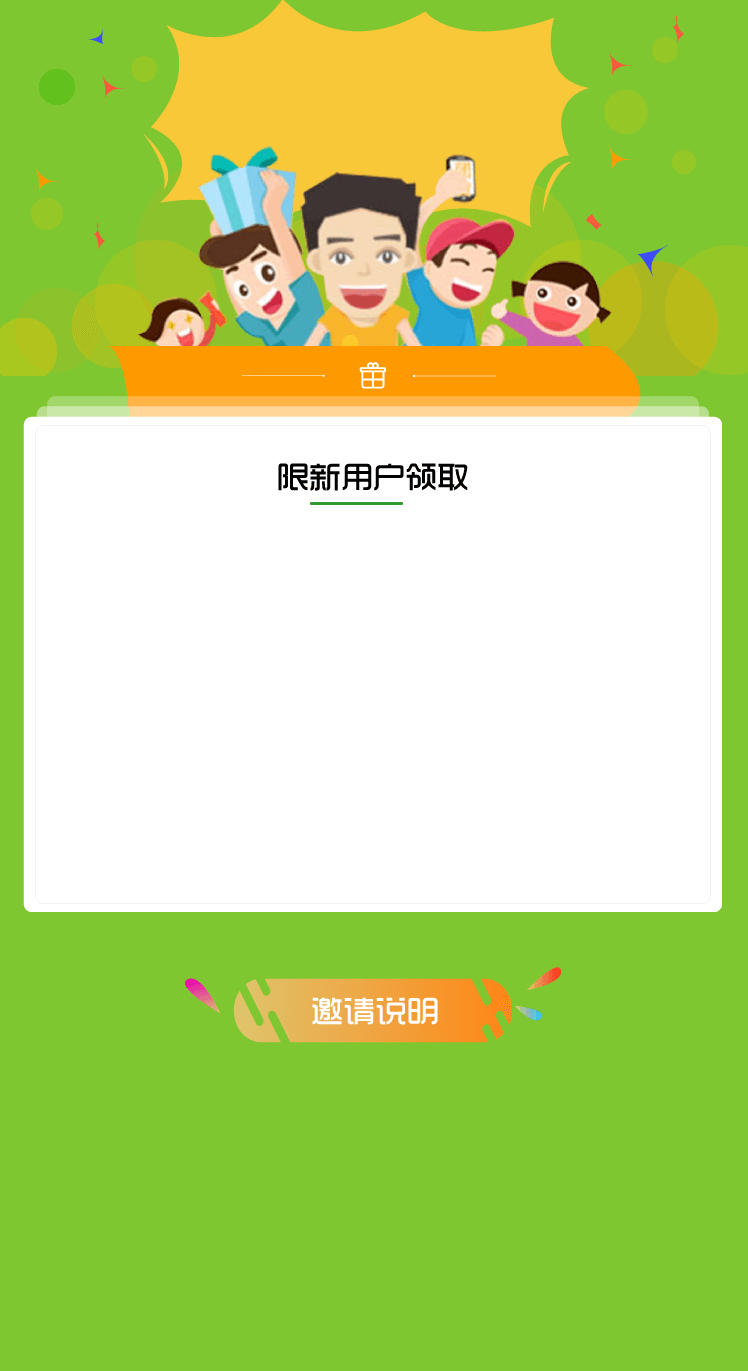
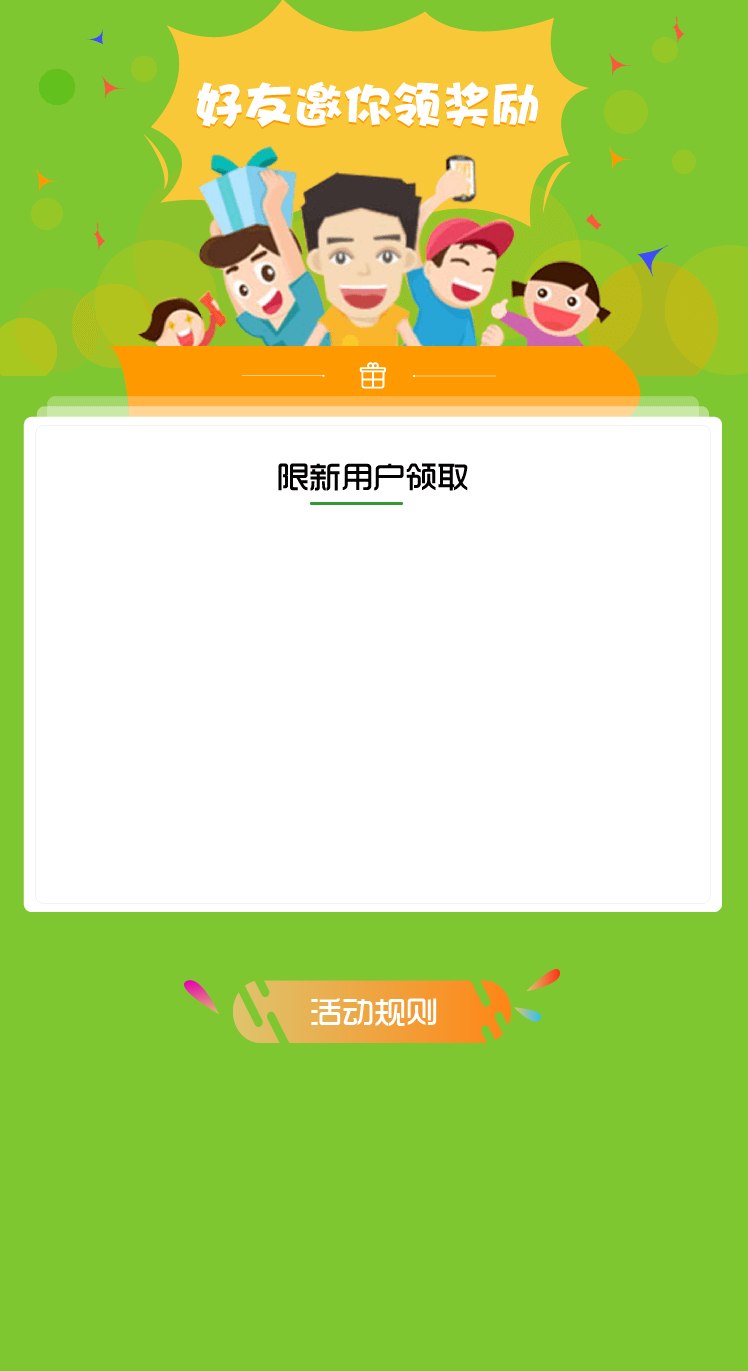
修改h5被邀请页面

diff --git a/affiliate_invite_register.dwt.php b/affiliate_invite_register.dwt.php
@@ -37,31 +37,15 @@ defined('IN_ECJIA') or header("HTTP/1.0 404 Not Found");exit('404 Not Found');
 	</div>
 	<div class="invite-notice">
 		<ul>
+			<!--{foreach from=$invite_user.invitee_rule_explain item=invite}-->
+			{if $invite}
 			<li>
 				<p>
-					<i>1.</i>好友通过您的邀请，打开链接，在活动页输入手机号码登录，即可获得奖励；
+					{$invite}
 				</p>
 			</li>
-			<li>
-				<p>
-					<i>2.</i>每邀请一位新人好友并完成注册都可获得相应的奖励；
-				</p>
-			</li>
-			<li>
-				<p>
-					<i>3.</i>奖励一经领取后，不可删除，不可提现，不可转赠；
-				</p>
-			</li>
-			<li>
-				<p>
-					<i>4.</i>新用户领取的奖励查看方式：【我的-我的钱包】查看；
-				</p>
-			</li>
-			<li>
-				<p>
-					<i>5.</i>如有任何的疑问请咨询官网客服人员。
-				</p>
-			</li>
+			{/if}
+			<!--{/foreach}-->
 		</ul>
 	</div>
 </div>

diff --git a/extras/controller/affiliate_controller.php b/extras/controller/affiliate_controller.php
@@ -56,11 +56,17 @@ class affiliate_controller {
 		
 		$res = ecjia_touch_manager::make()->api(ecjia_touch_api::CAPTCHA_IMAGE)->data(array('token' => $token))->run();
 		$res = !is_ecjia_error($res) ? $res : array();
-
+		
 		ecjia_front::$controller->assign('captcha_image', $res['base64']);
 		
 		$invite_code = trim($_GET['invite_code']);
 		ecjia_front::$controller->assign('invite_code', $invite_code);
+
+		$token = ecjia_touch_user::singleton()->getToken();
+		$invite_user_detail = ecjia_touch_manager::make()->api(ecjia_touch_api::INVITE_USER)->data(array('token' => $token))->run();
+		$invite_user_detail['invitee_rule_explain'] = explode("\n", $invite_user_detail['invitee_rule_explain']);
+
+		ecjia_front::$controller->assign('invite_user', $invite_user_detail);
 		
 		ecjia_front::$controller->display('affiliate_invite_register.dwt');
 	}
